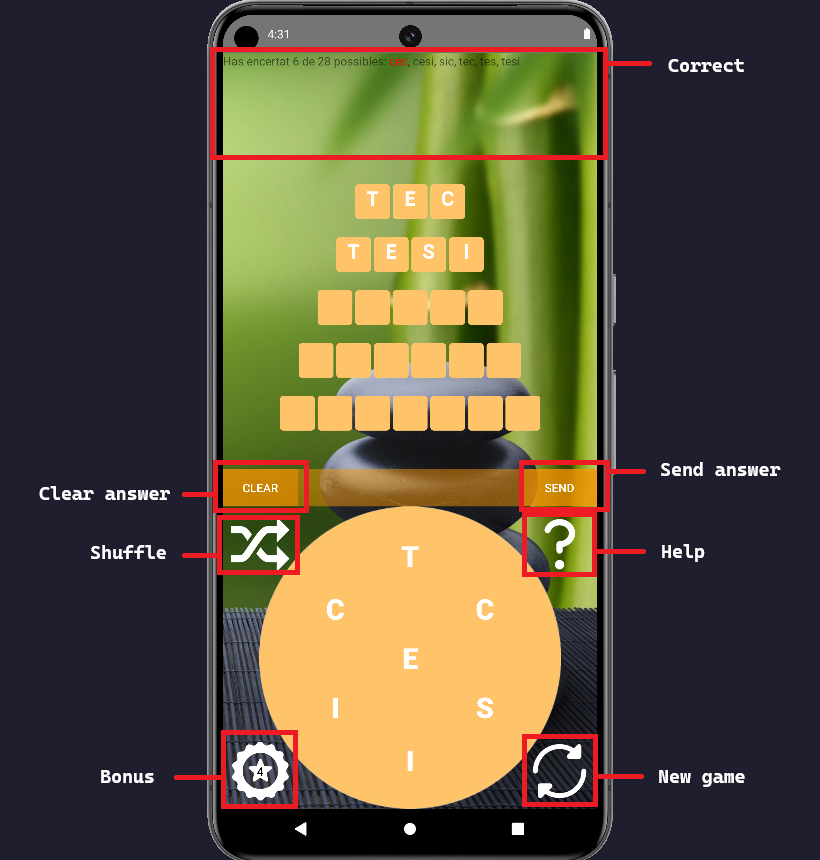
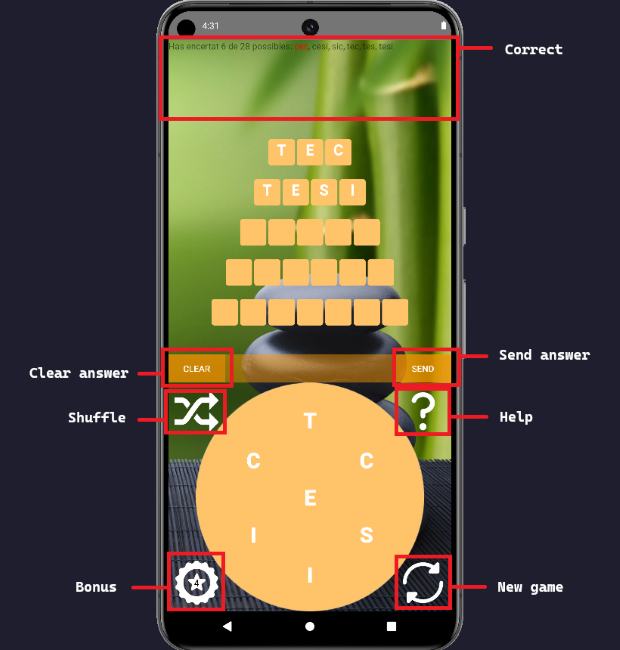
[UPDATE]: updated main screen image

diff --git a/README.md b/README.md
@@ -11,7 +11,7 @@ using Android Studio and with the collaboration of [Marc Link](https://github.co
 
 When you open the app, you will see the main screen, where the game is played.
 <p align="center">
-    <img src="main-screen.png" alt="main screen of the game" width="620" height="640"/>
+    <img src="main-screen.png" alt="main screen of the game" width="620" height="650"/>
 </p>
 
 ## 🔨 How to try it
